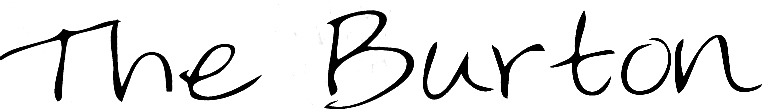
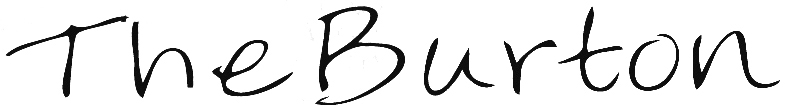
calc menu

Changed region(s): [[0.3683, 0.0556, 1.0, 1.0], [0.0, 0.1389, 0.3683, 0.9167], [0.5524, 0.3611, 0.5831, 0.3889]]

diff --git a/css/styles.css b/css/styles.css
@@ -50,10 +50,10 @@ nav input {
   margin: 0.75em;
   background-color: rgba(255, 255, 255, 0.6);
   background-color: hsla(34, 78%, 91%, 0.6);
-  background-image: url("../img/burtonfont.png");
+  background-image: url("../img/burton_color.png");
   background-repeat: no-repeat;
   background-size: contain;
-  background-position: right top;
+  background-position: 95% top;
   box-shadow: 1px 1px 3px black;
   border: solid 1px white;
 }
@@ -395,9 +395,11 @@ p.external a {
   }
   #wrap > div > section {
     background-color: transparent;
-    background-image: url("../img/burtonfont_horizontal.jpg");
-    background-position: 0 50%;
-    height: 4em;
+    background-image: url("../img/burton_white.png");
+    background-position: 5% 100%;
+    background-size: 80%;
+    height: 5em;
+
     box-shadow: none;
     border-width: 0;
     border-radius: 0;
@@ -541,9 +543,14 @@ p.external a {
     margin: 0 .5em 0 0;
   }
 
+  #wrap > div > section {
+    background-image: url("../img/burton_alt.png");
+    background-size: contain;
+  }
+
 }
 
-@media only screen and (max-width: 520px) {
+@media only screen and (max-width: 540px) {
   #triangle {
     border-width: 16vw;
   }
@@ -551,9 +558,32 @@ p.external a {
     grid-template-columns: 10em 10px auto 15em;
   }
 
+ 
+}
+@media only screen and (max-width:480px) {
   #wrap > div > section {
-    background-image: url("../img/burtonfont_portrait.jpg");
+    background-image: url("../img/burton_small.png");
+    background-size: contain;
+    background-position: 0% 0%;
+    height: 20vw;
   }
+
+  .accordion label {
+    right:  calc(50px + 34 * (100vw - 320px) / (480 - 320));
+    top:  calc(10px + 10 * (100vw - 320px) / (480 - 320));
+    width:  calc(50px + 14 * (100vw - 320px) / (480 - 320));
+    height:  calc(50px + 14 * (100vw - 320px) / (480 - 320));
+  }
+
+  .accordion ul {
+    width: 140px;
+    top:  calc(65px + 30 * (100vw - 320px) / (480 - 320));
+  }
+
+  .accordion input:checked + ul {
+    left:  calc(130px + 120 * (100vw - 320px) / (480 - 320));
+  }
+
 }
 
 

diff --git a/css/home.css b/css/home.css
@@ -3,7 +3,7 @@ main > h2 {
   padding: 0 1em 0 0;
   color: hsl(80, 90%, 50%);
   font-family: Whisper, Georgia, "Times New Roman", Times, serif;
-  font-size: calc(31px + (15) * (100vw - 812px) / (1280 - 812));
+  font-size: calc(28px + (20) * (100vw - 812px) / (1280 - 812));
   line-height: 0.8;
   text-align: right;
   text-shadow: 1px 1px 2px black;
@@ -47,7 +47,7 @@ article {
   color: #333;
   text-decoration: none;
   border-radius: 50%;
-  background: white url("../img/phone.png") no-repeat center 20%/60%;
+  background: white url("../img/phone_sprite.png") no-repeat center 30%/70%;
   box-shadow: 1px 1px 3px black;
   justify-content: center;
   align-items: center;
@@ -58,14 +58,19 @@ article {
   width: 9em;
   border: 0 solid white;
   height: 9em;
-  line-height: 1;
+  line-height: .9;
 }
 #circle strong {
-  font-size: 1.2em;
+  font-size: 1.1em;
   color: hotpink;
+}
+#circle strong:first-child {
+  color:  hsla(360, 84%, 25%, 1);
+  margin: .7em 0 .2em;
 }
 #circle:hover {
   background-color: pink;
+  background-position: center -40%;
 }
 
 #circle img {

diff --git a/index.html b/index.html
@@ -80,7 +80,7 @@ this messed up Modernizr flex detection
                 and Kirkby Stephen.
               </p>
             </article>
-            <a id="circle" href="mailto:enquiries@theburton.co.uk" title="link to email"><strong>07966</strong><strong>702640</strong></a>
+            <a id="circle" href="mailto:enquiries@theburton.co.uk" title="link to email"><strong>Selina</strong><strong>07966</strong><strong>702640</strong></a>
           </section>
           </main>
         </div>
